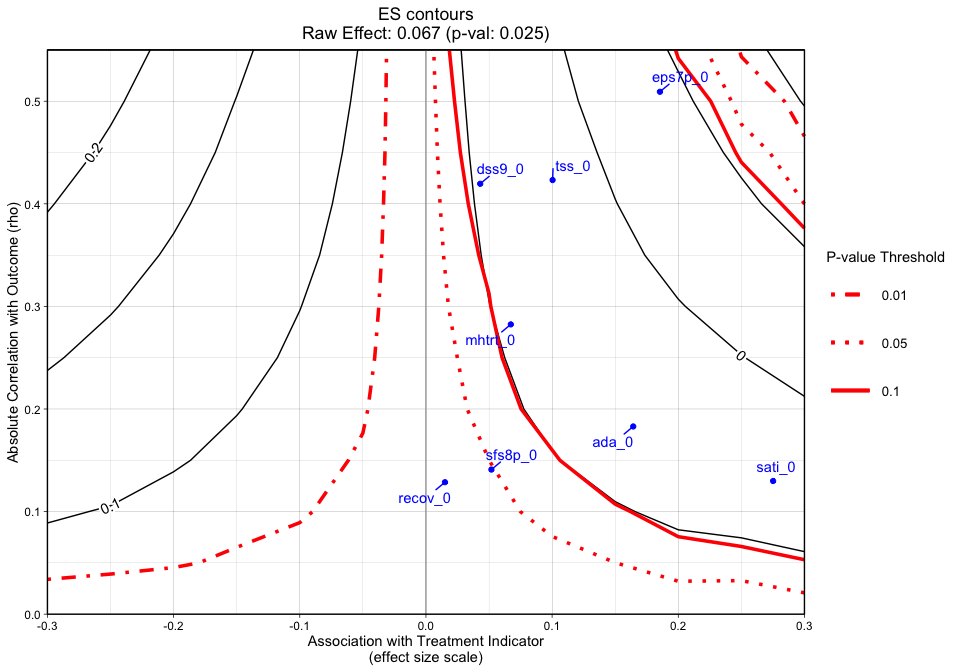
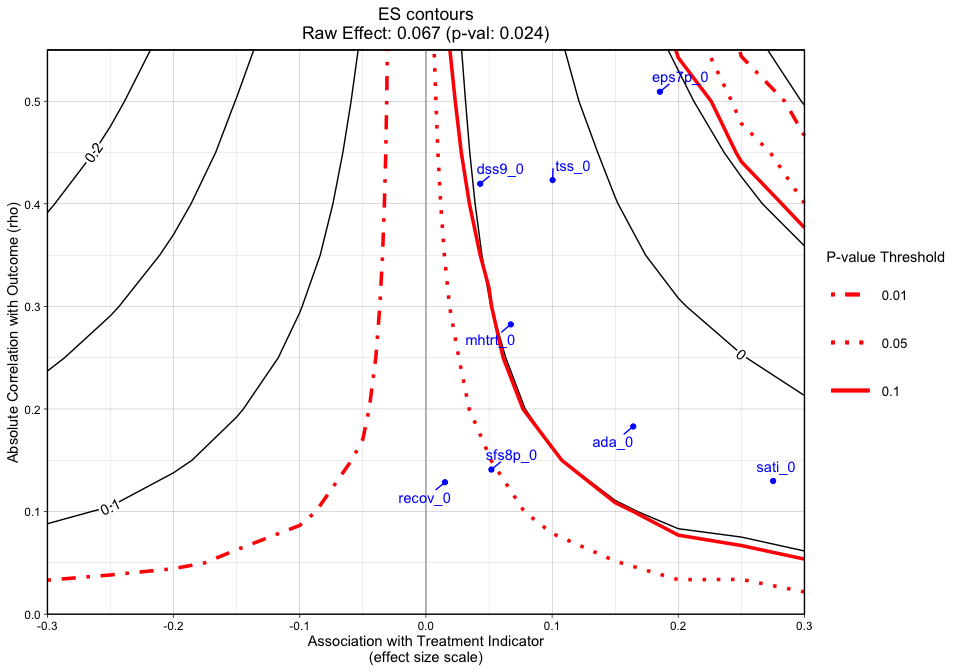
prepare package for CRAN

diff --git a/README.md b/README.md
@@ -5,7 +5,7 @@
 # Introduction
 
 *Note: This is a work in progress.. This document was lasted updated
-2021-01-19 21:05:29*
+2021-01-28 09:44:26*
 
 The <ins>O</ins>mitted <ins>V</ins>ariable <ins>T</ins>ool (`OVtool`)
 package was designed to assess the sensitivity of research findings to
@@ -75,6 +75,37 @@ you restart your R session after running:*
 ``` r
 # install.packages("devtools")
 devtools::install_github("jpane24/OVtool", ref='master') 
+```
+
+    #> knitr     (1.30  -> 1.31   ) [CRAN]
+    #> fastmap   (1.0.1 -> 1.1.0  ) [CRAN]
+    #> cachem    (NA    -> 1.0.1  ) [CRAN]
+    #> htmltools (0.5.1 -> 0.5.1.1) [CRAN]
+    #> rappdirs  (0.3.1 -> 0.3.2  ) [CRAN]
+    #> gert      (1.0.2 -> 1.1.0  ) [CRAN]
+    #> memoise   (1.1.0 -> 2.0.0  ) [CRAN]
+    #> ggrepel   (0.9.0 -> 0.9.1  ) [CRAN]
+    #> 
+    #>   There are binary versions available but the source versions are later:
+    #>          binary source needs_compilation
+    #> knitr      1.30   1.31             FALSE
+    #> rappdirs  0.3.1  0.3.2              TRUE
+    #> 
+    #> 
+    #> The downloaded binary packages are in
+    #>  /var/folders/ks/ll8v5y8x6rz_cgvtgk6zln90b6fd3c/T//RtmpqFppIB/downloaded_packages
+    #>      checking for file ‘/private/var/folders/ks/ll8v5y8x6rz_cgvtgk6zln90b6fd3c/T/RtmpqFppIB/remotes183e71b494ff6/jpane24-OVtool-99ae661/DESCRIPTION’ ...  ✓  checking for file ‘/private/var/folders/ks/ll8v5y8x6rz_cgvtgk6zln90b6fd3c/T/RtmpqFppIB/remotes183e71b494ff6/jpane24-OVtool-99ae661/DESCRIPTION’
+    #>   ─  preparing ‘OVtool’:
+    #>      checking DESCRIPTION meta-information ...  ✓  checking DESCRIPTION meta-information
+    #>   ─  checking for LF line-endings in source and make files and shell scripts
+    #>   ─  checking for empty or unneeded directories
+    #>   ─  building ‘OVtool_1.0.0.tar.gz’
+    #>      Warning: invalid uid value replaced by that for user 'nobody'
+    #>    Warning: invalid gid value replaced by that for user 'nobody'
+    #>      
+    #> 
+
+``` r
 # we recommend restarting your R session after running the previous line of code
 # for the first time on your machine
 library(OVtool)
@@ -149,10 +180,10 @@ bal.table(ps.twang); # summary(ps.twang)
     #> $unw
     #>          tx.mn  tx.sd  ct.mn  ct.sd std.eff.sz   stat     p    ks ks.pval
     #> eps7p_0  0.256  0.196  0.219  0.192      0.187  5.937 0.000 0.103   0.000
-    #> sfs8p_0 11.253 13.134 10.571 12.162      0.054  1.703 0.089 0.045   0.032
+    #> sfs8p_0 11.253 13.134 10.571 12.162      0.054  1.703 0.089 0.046   0.032
     #> sati_0   8.233 22.128  2.145 10.658      0.345 11.088 0.000 0.121   0.000
-    #> ada_0   48.748 33.400 54.236 32.454     -0.166 -5.271 0.000 0.081   0.000
-    #> recov_0  0.246  0.431  0.240  0.427      0.015  0.479 0.632 0.006   1.000
+    #> ada_0   48.748 33.400 54.236 32.454     -0.166 -5.271 0.000 0.080   0.000
+    #> recov_0  0.246  0.431  0.240  0.427      0.015  0.479 0.632 0.007   1.000
     #> tss_0    2.277  3.525  1.924  3.115      0.106  3.365 0.001 0.043   0.050
     #> mhtrt_0  0.290  0.513  0.256  0.484      0.069  2.188 0.029 0.028   0.413
     #> dss9_0   2.750  2.604  2.638  2.492      0.044  1.390 0.165 0.023   0.666
@@ -534,24 +565,24 @@ bal.table(ps.twang_att)
     #> $unw
     #>          tx.mn  tx.sd  ct.mn  ct.sd std.eff.sz   stat     p    ks ks.pval
     #> eps7p_0  0.256  0.196  0.219  0.192      0.185  5.937 0.000 0.103   0.000
-    #> sfs8p_0 11.253 13.134 10.571 12.162      0.052  1.703 0.089 0.045   0.032
+    #> sfs8p_0 11.253 13.134 10.571 12.162      0.052  1.703 0.089 0.046   0.032
     #> sati_0   8.233 22.128  2.145 10.658      0.275 11.088 0.000 0.121   0.000
-    #> ada_0   48.748 33.400 54.236 32.454     -0.164 -5.271 0.000 0.081   0.000
-    #> recov_0  0.246  0.431  0.240  0.427      0.015  0.479 0.632 0.006   1.000
+    #> ada_0   48.748 33.400 54.236 32.454     -0.164 -5.271 0.000 0.080   0.000
+    #> recov_0  0.246  0.431  0.240  0.427      0.015  0.479 0.632 0.007   1.000
     #> tss_0    2.277  3.525  1.924  3.115      0.100  3.365 0.001 0.043   0.050
     #> mhtrt_0  0.290  0.513  0.256  0.484      0.067  2.188 0.029 0.028   0.413
     #> dss9_0   2.750  2.604  2.638  2.492      0.043  1.390 0.165 0.023   0.666
     #> 
     #> $ks.max.ATT
     #>          tx.mn  tx.sd  ct.mn  ct.sd std.eff.sz   stat     p    ks ks.pval
-    #> eps7p_0  0.256  0.196  0.249  0.193      0.034  1.024 0.306 0.026   0.561
-    #> sfs8p_0 11.253 13.134 11.016 12.677      0.018  0.544 0.587 0.020   0.866
-    #> sati_0   8.233 22.128  6.376 19.312      0.084  1.939 0.053 0.035   0.214
-    #> ada_0   48.748 33.400 50.291 33.318     -0.046 -1.349 0.177 0.028   0.478
-    #> recov_0  0.246  0.431  0.229  0.420      0.039  1.207 0.227 0.017   0.953
-    #> tss_0    2.277  3.525  2.263  3.432      0.004  0.114 0.909 0.015   0.980
-    #> mhtrt_0  0.290  0.513  0.307  0.521     -0.032 -0.909 0.363 0.016   0.978
-    #> dss9_0   2.750  2.604  2.832  2.589     -0.031 -0.912 0.362 0.021   0.811
+    #> eps7p_0  0.256  0.196  0.249  0.193      0.035  1.040 0.298 0.027   0.542
+    #> sfs8p_0 11.253 13.134 11.023 12.673      0.017  0.526 0.599 0.020   0.854
+    #> sati_0   8.233 22.128  6.365 19.291      0.084  1.957 0.050 0.035   0.207
+    #> ada_0   48.748 33.400 50.297 33.315     -0.046 -1.356 0.175 0.028   0.480
+    #> recov_0  0.246  0.431  0.229  0.420      0.040  1.234 0.217 0.017   0.944
+    #> tss_0    2.277  3.525  2.265  3.431      0.003  0.095 0.924 0.016   0.970
+    #> mhtrt_0  0.290  0.513  0.306  0.521     -0.032 -0.890 0.373 0.015   0.982
+    #> dss9_0   2.750  2.604  2.834  2.589     -0.032 -0.939 0.348 0.022   0.788
 
 Notice that the only difference here is we use `estimand = ATT` to
 estimate the propensity score weights using TWANG. Again, we have
@@ -582,20 +613,20 @@ summary(results_att$mod_results)
     #> 
     #> Coefficients:
     #>               Estimate Std. Error t value Pr(>|t|)    
-    #> (Intercept)  0.3446086  0.0666856   5.168 2.49e-07 ***
-    #> treat        0.0669815  0.0298823   2.242   0.0250 *  
-    #> eps7p_0      1.6224090  0.1216548  13.336  < 2e-16 ***
-    #> sfs8p_0      0.0028975  0.0021227   1.365   0.1723    
-    #> sati_0       0.0020634  0.0012422   1.661   0.0968 .  
-    #> ada_0        0.0002657  0.0007851   0.338   0.7351    
-    #> recov_0     -0.0756167  0.0332064  -2.277   0.0228 *  
-    #> tss_0        0.0338415  0.0072709   4.654 3.36e-06 ***
-    #> mhtrt_0      0.2549506  0.0360198   7.078 1.72e-12 ***
-    #> dss9_0       0.0489526  0.0080671   6.068 1.41e-09 ***
+    #> (Intercept)  0.3444533  0.0666197   5.170 2.45e-07 ***
+    #> treat        0.0671950  0.0298328   2.252   0.0244 *  
+    #> eps7p_0      1.6202474  0.1213787  13.349  < 2e-16 ***
+    #> sfs8p_0      0.0029105  0.0021199   1.373   0.1699    
+    #> sati_0       0.0020605  0.0012391   1.663   0.0964 .  
+    #> ada_0        0.0002663  0.0007846   0.339   0.7343    
+    #> recov_0     -0.0753006  0.0331632  -2.271   0.0232 *  
+    #> tss_0        0.0338560  0.0072532   4.668 3.15e-06 ***
+    #> mhtrt_0      0.2556486  0.0359440   7.112 1.35e-12 ***
+    #> dss9_0       0.0489629  0.0080572   6.077 1.34e-09 ***
     #> ---
     #> Signif. codes:  0 '***' 0.001 '**' 0.01 '*' 0.05 '.' 0.1 ' ' 1
     #> 
-    #> (Dispersion parameter for gaussian family taken to be 0.7221675)
+    #> (Dispersion parameter for gaussian family taken to be 0.7218555)
     #> 
     #> Number of Fisher Scoring iterations: 2
 
@@ -719,8 +750,8 @@ summary.ov(object = ovtool_results_twang_att, model_results = results_att)
     #> [1] "88% Done!"
     #> [1] "100% Done!"
     #> [1] "Recommendation for reporting the sensitivity analyses"
-    #> [1] "The sign of the estimated effect is expected to remain consistent when simulated unobserved confounders have the same strength of associations with the treatment indicator and outcome that are seen in 7 of the 8 observed confounders. In the most extreme observed case in which the sign changes, the estimated effect size shifts from 0.067 to -0.038. The sign of the estimate would not be expected to be preserved for unobserved confounders that have the same strength of association with the treatment indicator and outcome as eps7p_0."
-    #> [1] "Statistical significance at the 0.05 level is expected to be robust to unobserved confounders with strengths of associations with the treatment indicator and outcome that are seen in 2 of the 8 observed confounders. In the most extreme observed case, the p-value would be expected to increase from 0.025 to 0.495. Significance at the 0.05 level would not be expected to be preserved for unobserved confounders that have the same strength of association with the treatment indicator and outcome as eps7p_0, sati_0, ada_0, tss_0, mhtrt_0, dss9_0."
+    #> [1] "The sign of the estimated effect is expected to remain consistent when simulated unobserved confounders have the same strength of associations with the treatment indicator and outcome that are seen in 7 of the 8 observed confounders. In the most extreme observed case in which the sign changes, the estimated effect size shifts from 0.067 to -0.037. The sign of the estimate would not be expected to be preserved for unobserved confounders that have the same strength of association with the treatment indicator and outcome as eps7p_0."
+    #> [1] "Statistical significance at the 0.05 level is expected to be robust to unobserved confounders with strengths of associations with the treatment indicator and outcome that are seen in 2 of the 8 observed confounders. In the most extreme observed case, the p-value would be expected to increase from 0.024 to 0.489. Significance at the 0.05 level would not be expected to be preserved for unobserved confounders that have the same strength of association with the treatment indicator and outcome as eps7p_0, sati_0, ada_0, tss_0, mhtrt_0, dss9_0."
 
 # Conclusion
 
